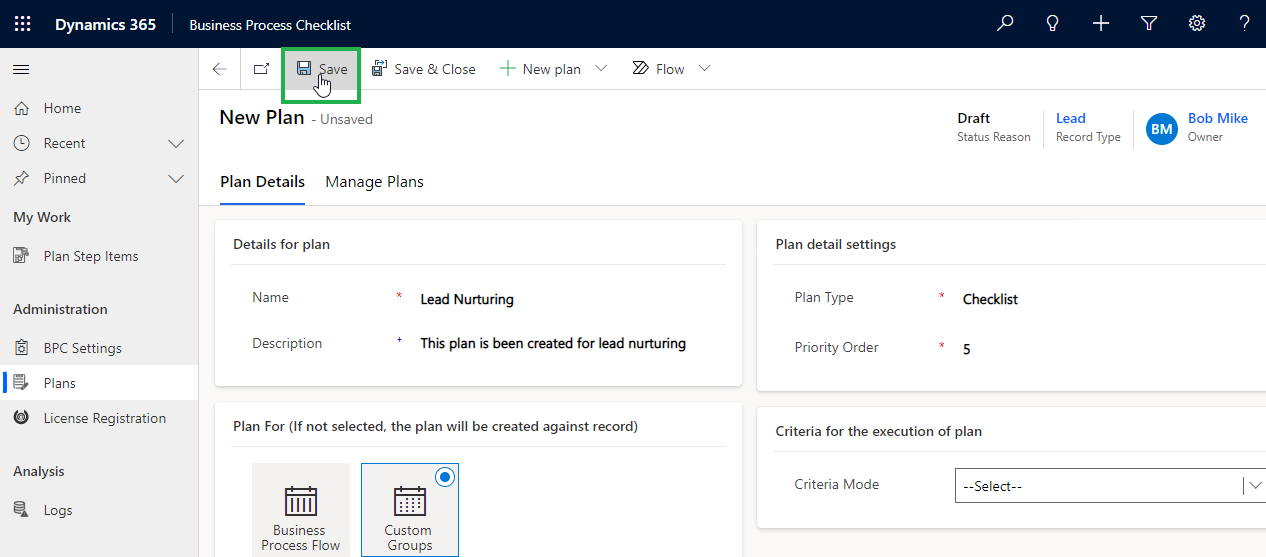
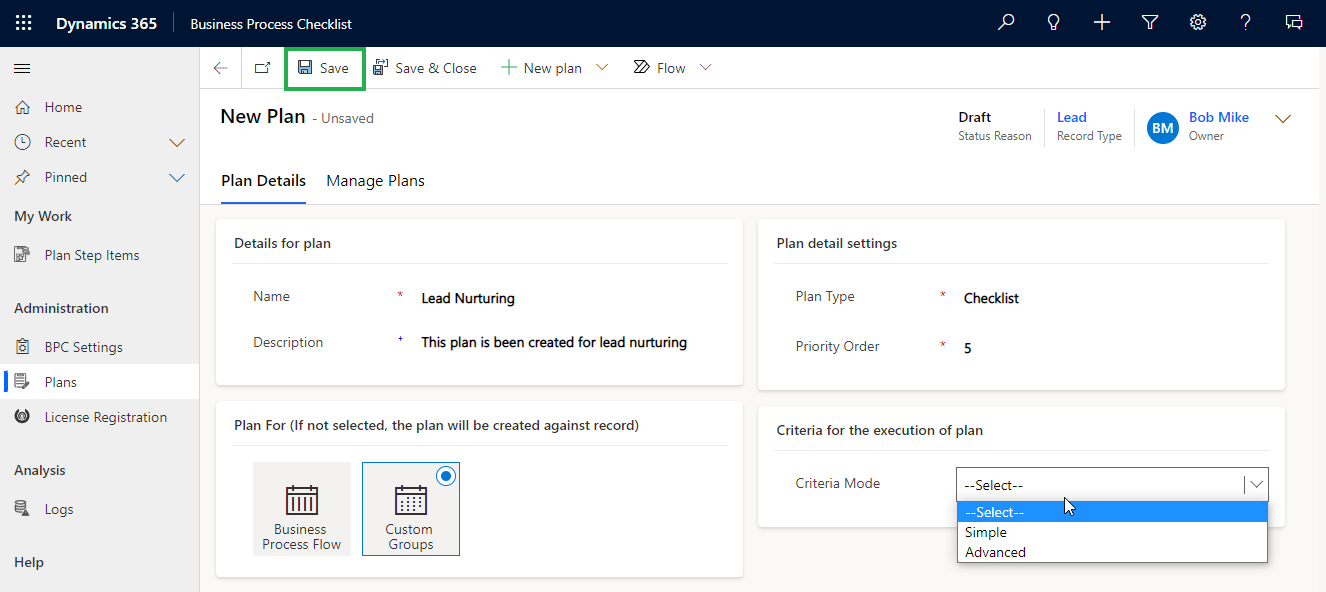
GitBook: [#3051] No subject

diff --git a/business-process-checklist/features/manage-plans/create-plan/custom-groups.md b/business-process-checklist/features/manage-plans/create-plan/custom-groups.md
@@ -68,19 +68,19 @@ With this feature, you can create both **Process** and **Checklist -** type plan
   * **Advanced:** Execute plans **** based on filter criteria or conditions (conditions defined in Fetch XML).
 * Select **'Custom Groups'.**
 
-<figure><img src="../../../../.gitbook/assets/Custom checklist plan 1 new (1).png" alt=""><figcaption></figcaption></figure>
+<figure><img src="../../../../.gitbook/assets/Custom checklist plan 1 new (1) (1).png" alt=""><figcaption></figcaption></figure>
 
 * Once the required fields are filled, click on **‘Save’**.
 
-<figure><img src="../../../../.gitbook/assets/Custom checklist plan 1 new (2).png" alt=""><figcaption></figcaption></figure>
+<figure><img src="../../../../.gitbook/assets/Custom checklist plan 1 new (1) (1) (1).png" alt=""><figcaption></figcaption></figure>
 
-* Navigate to **Manage Steps**.
+* Navigate to **Manage Plans**.
 
-<figure><img src="../../../../.gitbook/assets/custom checklist plan step_1 new.png" alt=""><figcaption></figcaption></figure>
+<figure><img src="../../../../.gitbook/assets/navigate to manage plans.png" alt=""><figcaption></figcaption></figure>
 
 * Click on the **'New Plan'** button.
 
-<figure><img src="../../../../.gitbook/assets/custom checklist plan step_2 new.png" alt=""><figcaption></figcaption></figure>
+<figure><img src="../../../../.gitbook/assets/new plan.png" alt=""><figcaption></figcaption></figure>
 
 * This will open the **‘Quick Create Form: Plan’,** where we need to fill the details
   * **Name:** Provide an appropriate name to the plan.
@@ -88,8 +88,10 @@ With this feature, you can create both **Process** and **Checklist -** type plan
   * **Priority Order:** Set the execution order against the plan (If the criteria is matching with three different plans, then which plan has to be followed, for that we need to set the priority order number) any value less than 1 or repeated numbers are invalid for this priority order field. ****&#x20;
 * Once the required fields are filled, click on **‘Save and Close’.**
 
-<figure><img src="../../../../.gitbook/assets/child plan quick create form.png" alt=""><figcaption></figcaption></figure>
+<figure><img src="../../../../.gitbook/assets/child plan quick create form (1).png" alt=""><figcaption></figcaption></figure>
 
+* Child plan will be added here.
+* Now click on the Child plan.
 * Click on the **'Create Step'** button.
 
 
